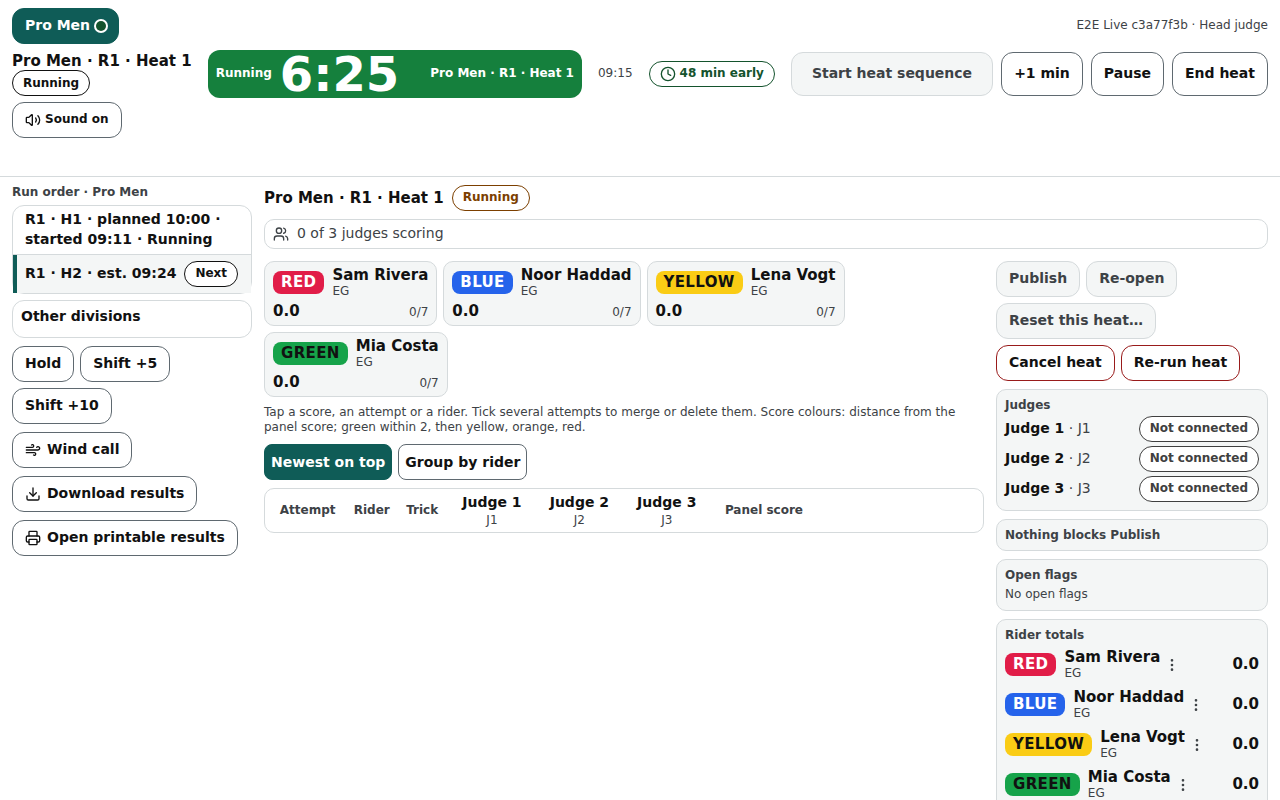
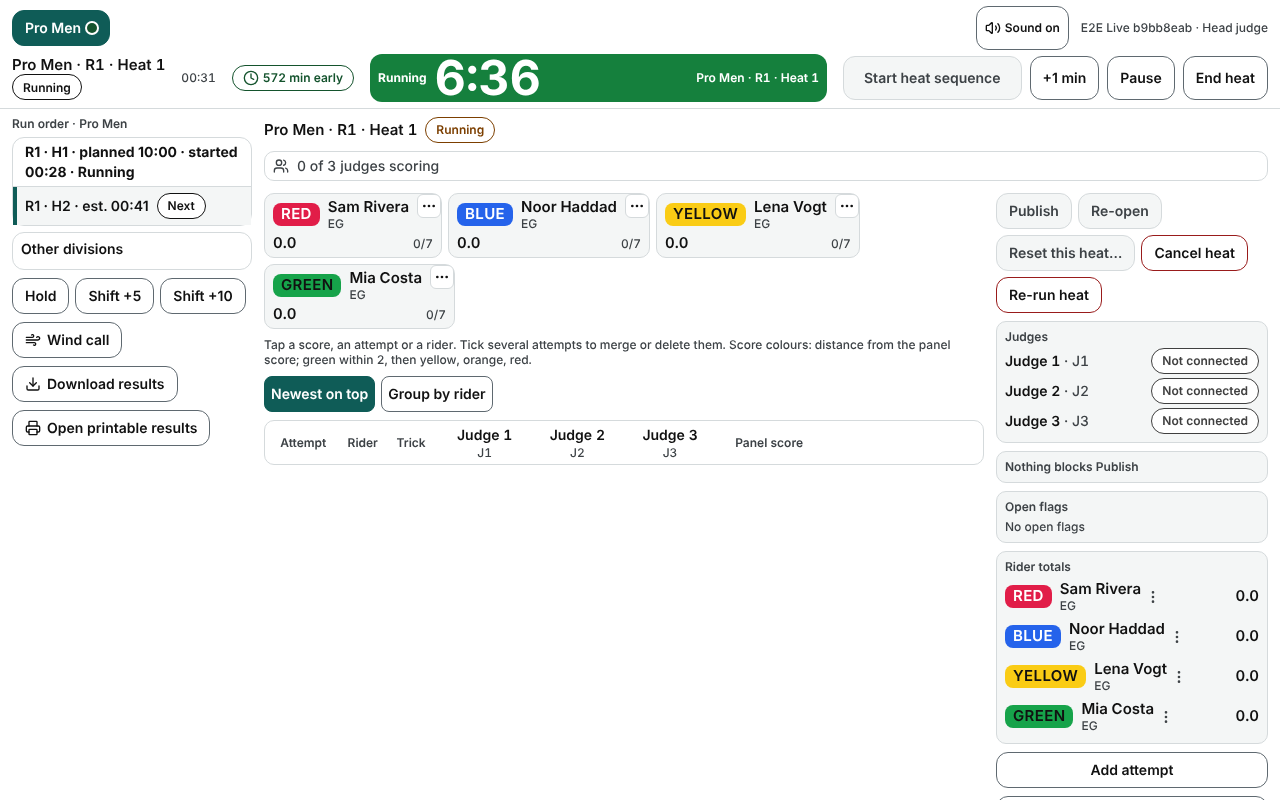
fix(ui): small ··· button in the card's corner; no extra row; words where the total was
The rider card is no taller than before the walkover work; the name wraps instead of running under the button. A walkover updates the console's copy of the heat at once. Layout check at 1280 and 1920 px; manual pictures retaken on a production build.

Claude-Session: https://claude.ai/code/session_011NgTs6f2UQiwPeJDKQvaMu

diff --git a/src/components/live/head-live-console.tsx b/src/components/live/head-live-console.tsx
@@ -272,7 +272,7 @@ export function HeadLiveConsole({
           {stripTiles.map(({ r, total, slot }) => {
             const noRide = noRideOf(r.entryId);
             return (
-              <div key={r.entryId} data-testid="rider-card" data-rider={r.entryId} className="flex min-w-[4.5rem] shrink flex-col rounded-card border border-beach-line bg-beach-surface">
+              <div key={r.entryId} data-testid="rider-card" data-rider={r.entryId} className="relative flex min-w-[4.5rem] shrink flex-col rounded-card border border-beach-line bg-beach-surface">
                 <button
                   type="button"
                   data-testid="rider-strip-tile"
@@ -282,19 +282,23 @@ export function HeadLiveConsole({
                   onClick={() => setMenu({ kind: "rider", entryId: r.entryId })}
                   className="flex min-h-tap w-full flex-col items-start gap-0.5 rounded-card px-2 py-1 text-left"
                 >
-                  <span className="min-w-0 whitespace-normal break-words">{<RiderLabel model={r.label} variant="live" bare />}</span>
+                  {/* the right margin keeps the name and nationality clear of the ··· button in the corner: they wrap, never run under it */}
+                  <span data-testid="rider-card-label" className={cn("min-w-0 whitespace-normal break-words", riderMenuOpen(heat.status) && "mr-6 max-w-[calc(100%-1.5rem)]")}>
+                    <RiderLabel model={r.label} variant="live" bare />
+                  </span>
                   <span className="flex w-full flex-wrap items-baseline justify-between gap-x-2">
-                    <span data-testid="rider-strip-total" className="text-name font-semibold tabular-nums">
-                      {noRide ? noRideText(noRide) : (heat.status === "scheduled" ? copy.live.result.noTotal : (total?.totalLabel ?? copy.live.result.noTotal))}
+                    {/* a rider who did not ride shows the words where the total was, never 0.0 */}
+                    <span data-testid="rider-strip-total" data-noride={noRide ?? undefined} className="text-name font-semibold tabular-nums">
+                      {noRide ? noRideText(noRide) : heat.status === "scheduled" ? copy.live.result.noTotal : (total?.totalLabel ?? copy.live.result.noTotal)}
                     </span>
                     <span data-testid="rider-strip-attempts" className="text-small font-medium text-beach-muted tabular-nums">
                       {V.attemptsShort(counts.get(r.entryId) ?? 0, cap)}
                     </span>
                   </span>
                   {slot?.modifier && !noRide ? <Pill tone="outlier">{slot.modifier}</Pill> : null}
-                  {noRide ? <Pill tone="outlier"><span data-testid="rider-noride">{noRideText(noRide)}</span></Pill> : null}
                 </button>
                 {riderMenuOpen(heat.status) ? (
+                  /* small and in the card's corner: 24 px to see, a little more to tap on a touch screen, inside the card and out of its layout */
                   <button
                     type="button"
                     data-testid="rider-card-menu"
@@ -302,10 +306,11 @@ export function HeadLiveConsole({
                     aria-label={W.menuButton(wordFor(r.entryId))}
                     aria-haspopup="menu"
                     onClick={() => setMenu({ kind: "rider", entryId: r.entryId })}
-                    className="flex min-h-[44px] w-full items-center justify-center rounded-b-card border-t border-beach-line text-name font-bold leading-none text-beach-ink"
+                    className="absolute right-0 top-0 grid size-6 place-items-center rounded-md text-beach-ink [@media(pointer:coarse)]:size-10 [@media(pointer:coarse)]:place-items-start [@media(pointer:coarse)]:justify-items-end"
                   >
-                    <MoreHorizontal aria-hidden className="size-5" />
-                    <span aria-hidden className="sr-only">···</span>
+                    <span data-testid="rider-card-menu-icon" className="grid size-6 place-items-center rounded-md border border-beach-line bg-beach-bg">
+                      <MoreHorizontal aria-hidden className="size-4" />
+                    </span>
                   </button>
                 ) : null}
               </div>
@@ -412,7 +417,7 @@ export function HeadLiveConsole({
             const slot = slotOf(t.entryId);
             return (
               <div key={t.entryId} data-testid="console-total" data-rider={t.entryId} className="flex flex-col gap-0.5">
-                <div className="flex items-center justify-between gap-2">
+                <div className="flex flex-wrap items-center justify-between gap-x-2 gap-y-0.5">
                   <button type="button" aria-label={`${wordFor(t.entryId)}: ${C.riderMenu}`} disabled={!open} onClick={() => setMenu({ kind: "rider", entryId: t.entryId })} className="flex min-h-tap min-w-0 items-center gap-1 rounded-lg text-left">
                     {r ? <RiderLabel model={r.label} variant="live" bare /> : <span>{wordFor(t.entryId)}</span>}
                     {open ? <MoreVertical aria-hidden className="size-4 shrink-0 text-beach-muted" /> : null}
@@ -561,6 +566,9 @@ export function HeadLiveConsole({
           onClose={close}
           onDone={(text) => {
             setFlash(text);
+            // the heat is published at one instant: show it so at once (the same as Publish and Re-open do), the next refresh confirms it
+            const at = new Date(nowServer).toISOString();
+            c.patchHeat?.(heat.id, { status: "published", started_at: at, ended_at: at });
             done();
           }}
         />

diff --git a/e2e/walkover-card.spec.ts b/e2e/walkover-card.spec.ts
@@ -1,0 +1,88 @@
+import { test, expect, installSupabaseProxy, closePhones } from "./base";
+import { addSecondChance, createLiveWorld, type LiveWorld } from "./live-world";
+import type { BrowserContext, Locator, Page } from "@playwright/test";
+
+// The ··· button of a rider card is small and sits inside the card's top-right corner: the card is no taller than it would be without it, so the score table starts
+// where it did before the walkover work. Checked at 1280 px and 1920 px laptop widths (throwaway organisation; one worker, no retries).
+let w: LiveWorld;
+test.beforeEach(async () => {
+  w = await createLiveWorld();
+});
+test.afterEach(async () => {
+  await w?.cleanup();
+});
+const phones: BrowserContext[] = [];
+test.afterEach(async () => {
+  await closePhones(phones);
+});
+const pickHeat = async (p: Page, heat: string) => {
+  // the second-chance division is not the one the console opens on
+  await p.getByTestId("division-tab").filter({ hasText: "Second chance" }).click({ timeout: 40_000 });
+  const row = p.locator(`[data-testid="order-row"][data-heat="${heat}"]`);
+  await row.waitFor({ state: "attached", timeout: 40_000 });
+  if (!(await row.isVisible())) await p.getByTestId("other-divisions").locator("summary").click();
+  // press it until the console really shows that heat (the page may still be switching division)
+  await expect(async () => {
+    await row.click();
+    await expect(row).toHaveAttribute("aria-pressed", "true", { timeout: 3_000 });
+  }).toPass({ timeout: 30_000 });
+};
+type Box = { x: number; y: number; width: number; height: number };
+const box = async (l: Locator): Promise<Box> => (await l.boundingBox())!;
+const overlap = (a: Box, b: Box) => a.x < b.x + b.width && b.x < a.x + a.width && a.y < b.y + b.height && b.y < a.y + a.height;
+
+for (const width of [1280, 1920]) {
+  test(`at ${width} px the ··· button is a small corner button inside the card, the card is no taller for it, and no text runs under it`, async ({ browser }) => {
+    test.setTimeout(300_000);
+    const ladder = await addSecondChance(w, "round2");
+    const r2 = ladder.draw.rounds.find((r) => r.id === "R2")!;
+    const oneVsOne = r2.heats.find((h) => h.slots.length === 2)!;
+    const scheduled = ladder.heats[oneVsOne.uid ?? oneVsOne.id];
+    const r1 = ladder.draw0.rounds[0].heats[0];
+    const published = ladder.heats[r1.uid ?? r1.id];
+    const context = await browser.newContext({ viewport: { width, height: 1000 } });
+    phones.push(context);
+    await installSupabaseProxy(context);
+    const head = await context.newPage();
+    await w.signInAs(head, "head", `/head/${w.eventId}`);
+
+    await pickHeat(head, scheduled);
+    const cards = head.getByTestId("rider-card");
+    await expect(cards).toHaveCount(2, { timeout: 40_000 });
+    const heights: number[] = [];
+    for (const i of [0, 1]) {
+      const card = cards.nth(i);
+      const c = await box(card);
+      const tile = await box(card.getByTestId("rider-strip-tile"));
+      const button = card.getByTestId("rider-card-menu");
+      const b = await box(button);
+      const icon = await box(card.getByTestId("rider-card-menu-icon"));
+      // small: about 24 × 24 visible; the tap area is a little bigger but never more than about 40 px
+      expect(icon.width).toBeGreaterThanOrEqual(22);
+      expect(icon.width).toBeLessThanOrEqual(26);
+      expect(icon.height).toBeGreaterThanOrEqual(22);
+      expect(icon.height).toBeLessThanOrEqual(26);
+      expect(b.width).toBeLessThanOrEqual(42);
+      expect(b.height).toBeLessThanOrEqual(42);
+      // inside the card, in its top-right corner
+      expect(b.x).toBeGreaterThanOrEqual(c.x - 0.5);
+      expect(b.y).toBeGreaterThanOrEqual(c.y - 0.5);
+      expect(b.x + b.width).toBeLessThanOrEqual(c.x + c.width + 0.5);
+      expect(b.y + b.height).toBeLessThanOrEqual(c.y + c.height + 0.5);
+      expect(c.x + c.width - (icon.x + icon.width)).toBeLessThanOrEqual(10);
+      expect(icon.y - c.y).toBeLessThanOrEqual(10);
+      // the button adds nothing to the card: it is as tall as the rider's own tile plus its 1 px border top and bottom
+      expect(Math.abs(c.height - tile.height - 2)).toBeLessThanOrEqual(1);
+      heights.push(c.height);
+      // the name, the total and the attempts never run under the button
+      for (const id of ["rider-card-label", "rider-strip-total", "rider-strip-attempts"]) expect(overlap(await box(card.getByTestId(id)), b), `${id} under the button`).toBe(false);
+    }
+
+    // the same kind of card in a published heat (no menu there) is as tall: the score table starts where it did
+    await pickHeat(head, published);
+    await expect(head.getByTestId("rider-card").first()).toBeVisible({ timeout: 40_000 });
+    await expect(head.getByTestId("rider-card-menu")).toHaveCount(0);
+    const publishedHeights = await head.getByTestId("rider-card").evaluateAll((els) => els.map((e) => e.getBoundingClientRect().height));
+    expect(Math.abs(Math.max(...publishedHeights) - Math.max(...heights))).toBeLessThanOrEqual(2);
+  });
+}

diff --git a/e2e/live-world.ts b/e2e/live-world.ts
@@ -177,7 +177,7 @@ export async function addLadder(w: LiveWorld) {
 
 /**
  * Console – Walkover: a division with the real "Knockout with a second chance" ladder for 12 riders (heats of 3), saved the way the Draw step saves it, with a run order
- * for tomorrow (so the estimated times are exact and do not depend on the clock). `stage: "round2"` has Round 1 already published (its winners in Round 3, the others in the
+ * for today (the world's own run order is switched off). `stage: "round2"` has Round 1 already published (its winners in Round 3, the others in the
  * second-chance round, which is dealt); `stage: "round1"` has only Heats 2–4 of Round 1 published, Heat 1 waits. Everything hangs off the throwaway organisation.
  */
 export async function addSecondChance(w: LiveWorld, stage: "round1" | "round2") {
@@ -226,13 +226,14 @@ export async function addSecondChance(w: LiveWorld, stage: "round1" | "round2") 
   }
   // the published heats of Round 1 started and ended an hour ago; a ridden heat has a length, so a walkover (one instant) is told from them
   for (const uid of published) await db.from("heats").update({ ended_at: new Date(Date.now() - 3_000_000).toISOString() }).eq("id", heats[uid]);
-  // tomorrow's run order, Heat 1 pinned at 10:00: the times are exact whatever the clock says
-  const tomorrow = new Intl.DateTimeFormat("en-CA", { timeZone: "Africa/Cairo" }).format(new Date(Date.now() + 86_400_000));
+  // today's run order for this division (the one the console shows: the world's own "Main" plan is switched off); its first heat is pinned in the past, so every time
+  // is "now" plus the lengths and breaks of the heats before it, and a heat that takes no time moves everything after it up
+  await db.from("schedule_plans").update({ active: false }).eq("id", w.planId);
   const unpublished = projection.heats.filter((h) => !published.has(h.uid));
   const items = unpublished.map((h, i) => ({ id: `s${i + 1}`, kind: "heat", heatId: heats[h.uid] }));
-  const plan = must(await db.from("schedule_plans").insert({ event_id: w.eventId, day: tomorrow, name: "Second chance day", active: true, items: items as never, anchors: { s1: "10:00" } }).select("id").single(), "plan");
+  const plan = must(await db.from("schedule_plans").insert({ event_id: w.eventId, day: w.today, name: "Second chance day", active: true, items: items as never, anchors: { s1: "00:01" } }).select("id").single(), "plan");
   const draftRows = await db.from("heats").select("id, number, draw_uid, status").eq("division_id", division.id).order("number");
-  return { divisionId: division.id, entries, names: first.map((f) => `${f} Chance`), heats, draw, draw0, planId: plan.id, tomorrow, rows: draftRows.data ?? [] };
+  return { divisionId: division.id, entries, names: first.map((f) => `${f} Chance`), heats, draw, draw0, planId: plan.id, rows: draftRows.data ?? [] };
 }
 
 /** The draw after a heat is published with the lower seed winning (the engine's own rule), for building the stage a browser test starts from. */
@@ -263,7 +264,7 @@ export async function publishDirect(w: LiveWorld, draw: DivisionDraw, heatId: st
   if (!step.ok) throw new Error(step.message);
   await w.db.from("heats").update({ status: "ended", started_at: new Date(Date.now() - 900_000).toISOString(), ended_at: new Date(Date.now() - 300_000).toISOString() }).eq("id", heatId);
   const results = ranked.map((r) => ({ entry_id: r.entrantId, place: r.place, total: r.total, percent: null, breakdown: r.total === null ? { status: "DNS" } : { status: "ok", total: r.total, totalLabel: String(r.total), components: { tricks: r.total, impression: 0, bonus: 0, penalty: 0 }, allAttempts: [] } }));
-  const { error } = await w.db.rpc("publish_heat_commit", { p_heat: heatId, p_expected_version: 1, p_results: results as never, p_draw: step.draw as never, p_projection: step.projection as never, p_hold: false, p_override_reason: null as never, p_actor: w.seats.head.userId, p_blockers: [] as never });
+  const { error } = await w.db.rpc("publish_heat_commit", { p_heat: heatId, p_expected_version: 1, p_results: results as never, p_draw: step.draw as never, p_projection: step.projection as never, p_hold: false, p_override_reason: "Test setup: no judges score this heat" as never, p_actor: w.seats.head.userId, p_blockers: [] as never });
   if (error) throw new Error(`publish_heat_commit: ${error.message}`);
   return step.draw ?? draw;
 }

diff --git a/e2e/walkover.spec.ts b/e2e/walkover.spec.ts
@@ -8,6 +8,9 @@ import type { DivisionDraw } from "../src/lib/engine/ladder";
 let w: LiveWorld;
 test.beforeEach(async () => {
   w = await createLiveWorld();
+  // a published result reaches the public pages at once (as on an event that shows results automatically); otherwise it waits for Release, as for any heat
+  const { data } = await w.db.from("events").select("settings").eq("id", w.eventId).single();
+  await w.db.from("events").update({ settings: { ...((data?.settings ?? {}) as object), publicResultsOnPublish: true } as never }).eq("id", w.eventId);
 });
 test.afterEach(async () => {
   await w?.cleanup();
@@ -26,10 +29,16 @@ async function laptop(browser: import("@playwright/test").Browser, path: string)
 }
 const dialog = (p: Page) => p.getByTestId("console-dialog");
 const pickHeat = async (p: Page, heat: string) => {
+  // the second-chance division is not the one the console opens on
+  await p.getByTestId("division-tab").filter({ hasText: "Second chance" }).click({ timeout: 40_000 });
   const row = p.locator(`[data-testid="order-row"][data-heat="${heat}"]`);
   await row.waitFor({ state: "attached", timeout: 40_000 });
   if (!(await row.isVisible())) await p.getByTestId("other-divisions").locator("summary").click();
-  await row.click();
+  // press it until the console really shows that heat (the page may still be switching division)
+  await expect(async () => {
+    await row.click();
+    await expect(row).toHaveAttribute("aria-pressed", "true", { timeout: 3_000 });
+  }).toPass({ timeout: 30_000 });
 };
 const rowText = (p: Page, heat: string) => p.locator(`[data-testid="order-row"][data-heat="${heat}"]`).innerText();
 const slotsOf = async (heat: string) => (await w.db.from("heat_slots").select("entry_id, modifier, position").eq("heat_id", heat).order("position")).data!;
@@ -48,11 +57,11 @@ test("a 1 v 1 heat: ··· on the rider who is missing, Did not start, Walkover:
   const head = await laptop(browser, `/head/${w.eventId}`);
   await pickHeat(head, heatId);
   await expect(head.getByTestId("rider-card")).toHaveCount(2, { timeout: 40_000 });
-  // two riders can ride: no Walkover yet; every card has its ··· button (44 px or more)
+  // two riders can ride: no Walkover yet; every card has a small ··· button in its corner (about 24 px; the card is not taller for it: see walkover-card.spec.ts)
   await expect(head.getByTestId("walkover-button")).toHaveCount(0);
   const dots = head.locator(`[data-testid="rider-card-menu"][data-rider="${missing}"]`);
   await expect(dots).toBeVisible();
-  expect((await dots.boundingBox())!.height).toBeGreaterThanOrEqual(44);
+  expect((await dots.boundingBox())!.height).toBeLessThanOrEqual(42);
   const before = await rowText(head, nextId);
 
   await dots.click();

diff --git a/e2e/manual-shots-walkover.spec.ts b/e2e/manual-shots-walkover.spec.ts
@@ -23,6 +23,7 @@ test("the rider menu on a card, and the Walkover button", async ({ browser }) =>
     await installSupabaseProxy(laptop);
     const head = await laptop.newPage();
     await w.signInAs(head, "head", `/head/${w.eventId}`);
+    await head.getByTestId("division-tab").filter({ hasText: "Second chance" }).click({ timeout: 60_000 });
     const row = head.locator(`[data-testid="order-row"][data-heat="${heatId}"]`);
     await row.waitFor({ state: "attached", timeout: 60_000 });
     if (!(await row.isVisible())) await head.getByTestId("other-divisions").locator("summary").click();

diff --git a/docs/manual/screens/console-laptop.md b/docs/manual/screens/console-laptop.md
@@ -40,7 +40,7 @@ The head judge (the head judge seat, or an organiser of the event — an organis
 | Control | What it does |
 |---|---|
 | **Review bar** (directly under the heat's name, above the rider cards, full width) | From **End heat** until **Publish**: **amber** “Waiting for 2 of 4 judges: ‹Judge 2›, ‹Judge 4›” (tap a name: that judge's sheet opens, where you can **Save and submit** or set the judge to **Absent**); **red** “Blocked: ‹the first thing that blocks Publish, in the Publish list's own words›” (“+‹n› more”) with **Fix** and **Absent** (and **Choose order** for a tie); **green** “All 4 judges submitted — ready to publish”. While the heat is running it is a quiet line without colour: “3 of 4 judges scoring”. It follows the console's own refresh. The Publish button's blocker sentence is unchanged; the bar shows the same text earlier. |
-| **Riders in this heat** | One card per rider: the Rider label, the running total and attempts used / allowed (5/7). A heat that has not started shows “—” instead of a total. A rider who did not ride shows the words **Did not start**, **Out of the event** or **Walkover** instead of a score, never 0.0. Every card has a **···** button (44 px or more) under it in every state except a published heat: it opens the rider menu. |
+| **Riders in this heat** | One card per rider: the Rider label, the running total and attempts used / allowed (5/7). A heat that has not started shows “—” instead of a total. A rider who did not ride shows the words **Did not start**, **Out of the event** or **Walkover** instead of a score, never 0.0. Every card has a small **···** button in its top-right corner (about 24 px to see, a little more to tap on a touch screen) in every state except a published heat: it opens the rider menu. The button adds no height to the card, and the name wraps instead of running under it. |
 | **Impression** card (its name is the Event step's **Name of the impression score**, for example **Variety**) | Beside the rider cards, in the same row, once the heat has ended (not for a division whose scoring has no separate score): a **heading** in the same style and size as the console's other section headings (**Riders**, the table's header), left-aligned above the grid, then one column per judge (the same short names and J-numbers as the table) and a **Panel** column, one row per rider with the shared **Rider label** on one line: the Lycra block with the colour word, the name and the nationality, as the event's Rider identification scheme lists them (the same label as on the judge and spotter screens). Cells are coloured by distance from the panel mean like the trick scores (with the difference written in), “—” where a judge has not given it, “Absent” where the judge was set to Absent; tap a cell to correct it (the judge's sheet opens on that rider). It never pushes the table down: the card is always given its own room beside the rider cards (the rider cards shrink or wrap, never the card), so at 1280 px and wider it stays a card with 3, 4 and 5 riders; it takes tighter spacing first, then smaller digits down to the table's smallest text, and only when even that does not fit (six or more riders, a narrow window) it is one **Impression** button that opens the same grid as a pop-over. There is no Impression row in the attempt table. |
 | Score table | One row per attempt (rider, trick, panel score, one column per judge headed by the seat's name with “J1” under it). **Newest on top** or **Group by rider** (remembered). Cell words: a score; “missing” (grey: not scored yet); “missed” (the judge did not see it, left out of the average); “absent”; “outlier” (amber); “crash”; “deleted” (struck through); “possible duplicate”. Each judge's cell is coloured by its distance from the panel score (green within the tolerance, then yellow, orange, red). |
 | {#cl-pending} **Pending rows** | Scores a judge typed on the Rider sheet **before the spotter logged the attempt** appear in the table as **hatched, greyed rows** after the logged attempts of that rider: no trick, the line number, “pending · J1, J3” and each judge's note in that judge's column (“—” for a judge with none; Queue judges never have any). They are **never counted** in a total, **never published**, never on the public live page or any public screen. When the spotter logs the attempt the first pending row becomes the attempt. They shift up when you delete or merge an attempt before them. **Publish is blocked while any remains**: the list says “Omar Hassan: J3 has a score with no attempt” (with **Learn more**) and there is no “publish anyway”. Ask the judge to press **Clear** on that line, or press **Clear** on the note's cell in the pending row yourself: one confirmation (“Clear J3's pending score on Omar Hassan, attempt 4? It is thrown away and never counted.”), reason optional, and the audit log says “Head judge cleared J3's pending score on Omar Hassan line 4: ‹reason or no reason given›”. This is the way out when the judge's phone is dead; the judge's sheet shows the line cleared within a second. Or add the attempt it belongs to (**Add attempt** past the cap, with a reason as usual). |
@@ -58,11 +58,17 @@ The head judge (the head judge seat, or an organiser of the event — an organis
 
 Works on the laptop console (and for an organiser). The phone's Control tab does not have the rider menu or the Walkover button: use the laptop or a tablet at 900 px or wider.
 
-1. **Press ··· on the rider's card**, in any state of the heat except published: not started, running, ended, under review.
+1. **Press the small ··· in the corner of the rider's card**, in any state of the heat except published: not started, running, ended, under review.
 2. Choose one:
    - **Did not start (this heat only).** The rider stays in the event. He ranks last in this heat and the card says **Did not start**. In a format with a second chance this counts as his lost heat, so he still gets his next heat. Changed your mind? **···** → **Back in the heat**, until the heat is published.
    - **Out of the event (injured or withdrew).** Exactly what **Withdrawn** on the Riders step does ([Riders step](organiser-riders.md#ri-controls)): from now on every seat he would fill, in this heat and in every later one (second-chance heats included), is a walkover for the others, and he takes the shared place of the round he left, like any rider knocked out there. The console and the Riders step give the same result.
+![The rider menu opened from the ··· in a card's corner](../img/console-rider-menu-1280.png)
+*console-rider-menu-1280.png — a heat that has not started: each card has a small ··· in its top-right corner; the menu offers Did not start (this heat only) and Out of the event.*
+
 3. **Walkover.** As soon as a heat that has not started has **only one rider who can ride**, one big button appears above the cards: **Walkover — ‹Rider label› goes through**. One press, one question. The heat is finished and published at once: no clock, no start sequence, no flags, no judges, no scores. The rider is placed 1st and shown as **Walkover** instead of a score; the others show **Did not start** or **Out of the event**. The seats the heat feeds fill at once, exactly as after a normal Publish.
+![The Walkover button](../img/console-walkover-1280.png)
+*console-walkover-1280.png — one rider is Did not start, so one big button: Walkover — Red goes through. The card says Did not start where the total was.*
+
 4. **A heat of three with one rider missing does not get a walkover**: it runs with two, as before.
 5. **Nobody left.** If every rider in the heat is Did not start or Out of the event, the button reads **No rider — finish this heat**: nobody goes through and the seat the heat feeds stays empty; a later heat left with one rider then offers its own Walkover. Nothing ever happens by itself: the head judge always presses.
 6. **The run order.** A walkover takes no time. Its line reads “R3 · H11 · Walkover · 14:05” (the time it was given); the heats after it move up, never before a pinned time. **Hold**, **Shift** and **+1 min** work as before.

diff --git a/docs/STATUS.md b/docs/STATUS.md
@@ -1351,14 +1351,13 @@ Release entry 0.17.0 (`docs/RELEASES.md`). `npm run typecheck && npm test`; `npm
 - Engine: `heatCanWalkover` / `walkoverRanking` (`src/lib/engine/ladder/walkover.ts`): a heat with exactly one rider who can ride is a walkover (rider 1st, no total, `walkover` mark; the others Did not start); nobody left = empty result (nobody goes through, the seat it feeds is a walkover); a heat of three with one missing is not a walkover. A rider who only did not start keeps his next seat (the next seat is DNS only for a rider who is out of the event or a seat nobody fills). A walkover winner is dealt below every 1st place with a score.
 - Run order: a walkover heat has `started_at = ended_at = published_at`; it is "done", takes no time, no break follows it, the heats after it move up (never before a pin). Console, public timetable and `Walkover · 14:05` line.
 - Database (`20261107100000_console_walkover.sql`, adds only): `set_rider_status` also on a heat not started; `head_out_of_event`; `walkover_heat_commit` (service role); `walkover_reopen`; `get_public_results` names a rider who holds a seat but is out of the event. **Not applied to the hosted project: the management token in the environment answers 401.** Database tests (`tests/rls/walkover.test.ts`) and the browser tests (`e2e/walkover.spec.ts`) are written and have not run against the new functions.
-- Console (laptop): **···** on every rider card (not started, running, ended, under review), Did not start (this heat only) / Back in the heat / Out of the event, optional reason with quick picks, the big **Walkover — ‹rider› goes through** / **No rider — finish this heat** button, words instead of scores, Ties box empty and Publish asks once on a heat nobody rode, Re-open on a walkover heat.
+- Console (laptop): a small **···** in the top-right corner of every rider card (not started, running, ended, under review; no extra height), Did not start (this heat only) / Back in the heat / Out of the event, optional reason with quick picks, the big **Walkover — ‹rider› goes through** / **No rider — finish this heat** button, words instead of scores, Ties box empty and Publish asks once on a heat nobody rode, Re-open on a walkover heat.
 - Words: ladder, public results/live/Follow/big screen/rider page, results CSV and printable page, event backup (`status_word`), audit lines.
 - Simulator: scenario **Rider no-show → walkover** (virtual head presses the same function; a person who is head presses it themselves).
 - Manual: console page section, Riders step, simulator, troubleshooting row, glossary, resets, changelog; release 0.19.0.
 
 ### Not done
 - Phone Control tab: no rider menu or Walkover button (laptop only).
-- Screenshots for the manual (spec `e2e/manual-shots-walkover.spec.ts` is in `npm run manual:shots`; not retaken: needs the migration on the hosted project).
 - `npm run db:types` not run (token); the new functions are called with untyped arguments until it is.
 
 ### How to test

diff --git a/docs/RELEASES.md b/docs/RELEASES.md
@@ -17,7 +17,7 @@ How to write an entry (copy the newest one):
 PR: #44
 
 ### What changed
-- **A rider who does not show up, is injured or withdraws now has a clear way through on the head judge's laptop console.** At Gouna, twice, the other rider could not be sent through: the rider menu was only there once a heat had started, so the heat was started, one rider was given a made-up score, and 15 minutes were lost. Now every rider card has a **···** button in every state (not started, running, ended, under review).
+- **A rider who does not show up, is injured or withdraws now has a clear way through on the head judge's laptop console.** At Gouna, twice, the other rider could not be sent through: the rider menu was only there once a heat had started, so the heat was started, one rider was given a made-up score, and 15 minutes were lost. Now every rider card has a small **···** button in its top-right corner in every state (not started, running, ended, under review); it adds no height to the card.
 - **Did not start (this heat only)** — the rider stays in the event, ranks last, and in a format with a second chance still gets the next heat. **Back in the heat** undoes it until the heat is published.
 - **Out of the event (injured or withdrew)** — exactly what **Withdrawn** on the Riders step does: every seat the rider would fill, this heat and every later one (second-chance heats too), becomes a walkover for the others.
 - **Walkover.** When a heat that has not started has only one rider who can ride, one big button appears: **Walkover — ‹rider› goes through**. One press, one question: the heat is finished and published at once (no clock, no flags, no judges, no scores), the rider is 1st and reads **Walkover**, the seats it feeds fill, and the heats after it move up in the run order. A heat of three with one rider missing still runs with two. If nobody is left the button reads **No rider — finish this heat**.
@@ -40,7 +40,6 @@ PR: #44
 ### Known issues
 - The phone's Control tab does not have the rider menu or the Walkover button (laptop or tablet at 900 px or wider only).
 - "Out of the event" shows on a rider card as soon as it is pressed on that screen; another head-judge screen that was already open shows **Did not start** for that rider until it is reloaded.
-- Screenshots of the new console section are not in the manual yet (see the pull request).
 
 ## 0.18.2 — 8 Oct 2026 {#release-0-18-2}
 
